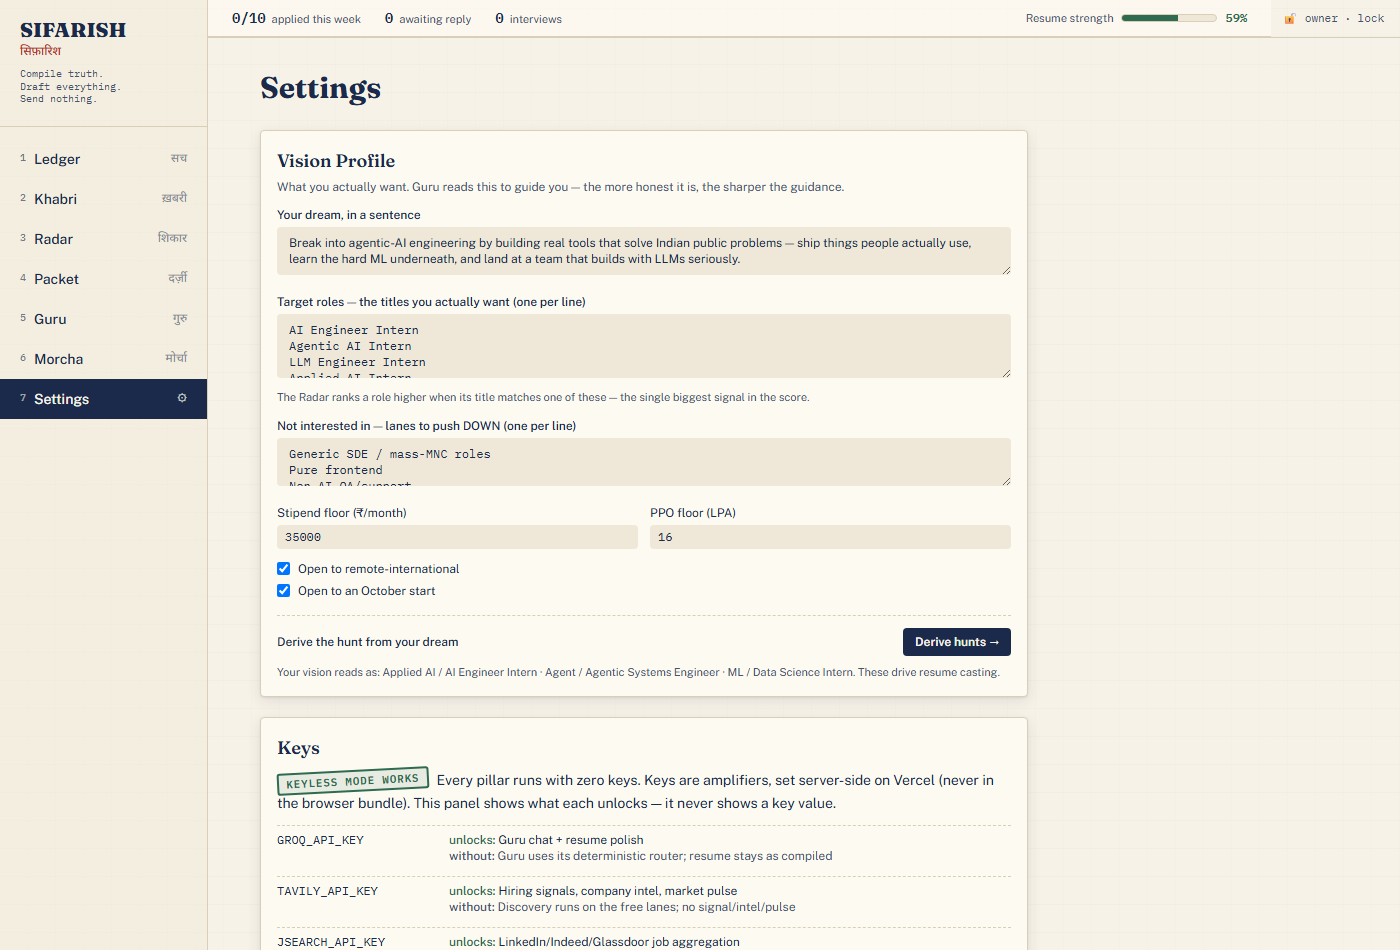
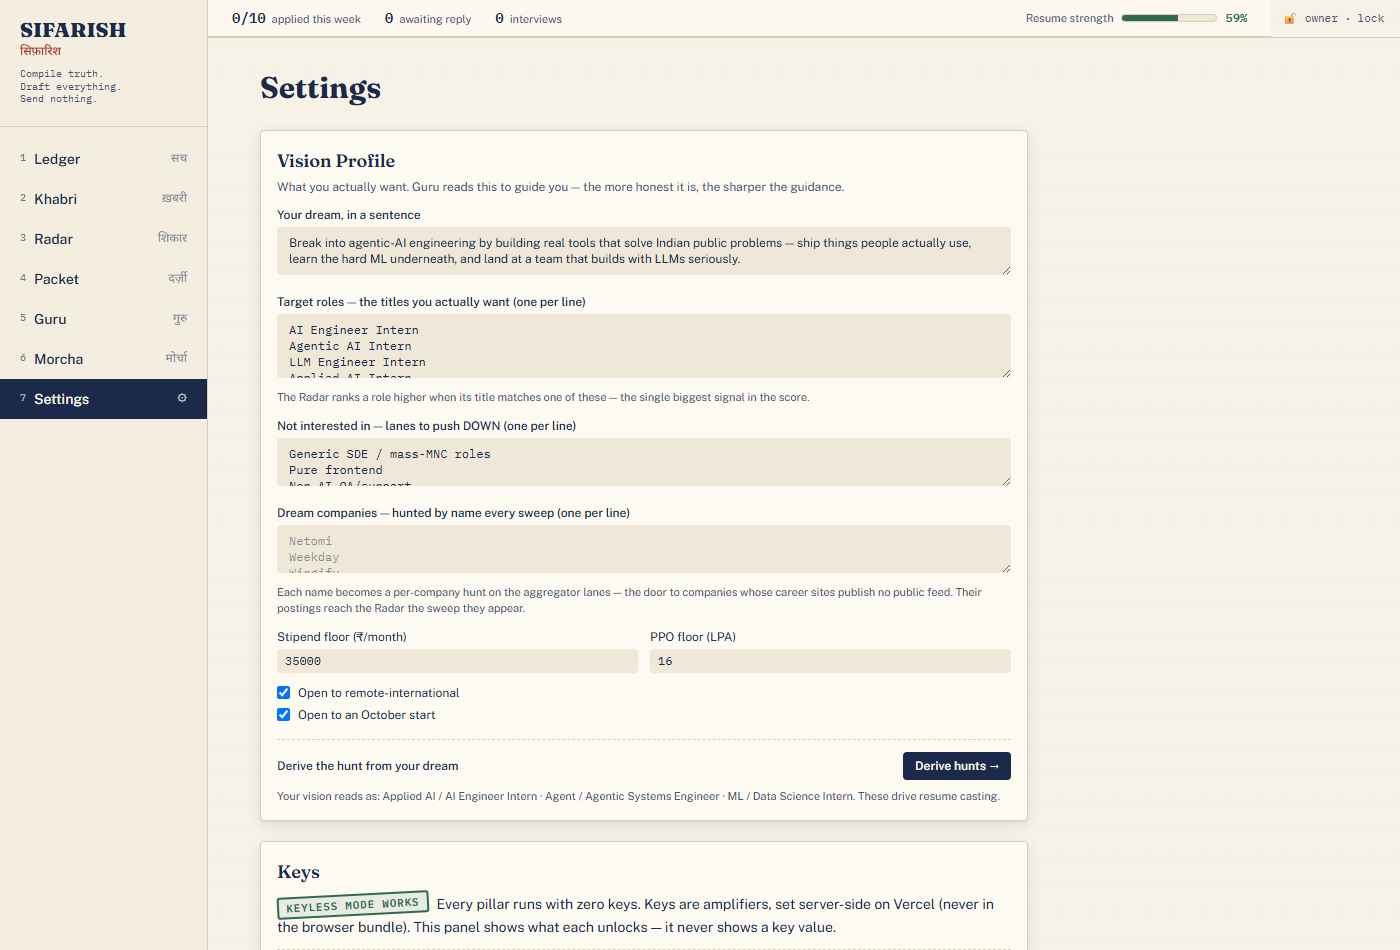
fix(S6): three defects caught by READING the live proofs — PDF sanitizer ate …/× (typesetting re-broke on the page), education sorted by Dexie key order (Class X above XII), both gated (D139)

Changed region(s): [[0.1843, 0.5189, 0.7371, 1.0]]

diff --git a/tests/session6.test.ts b/tests/session6.test.ts
@@ -123,6 +123,15 @@ describe('Defect 3 — the page reads like a typesetter set it', () => {
     }
     const xii = lines.find((l) => l.text.includes('Class X,'))
     expect(xii?.text).toMatch(/98\.6%.*2021/)
+    // Session 6 (live-proof catch): education is reverse-chronological — B.Tech, then XII, then X
+    // (Dexie's primary-key order had put Class X above Class XII).
+    const eduLines = []
+    for (let i = eduHeading + 1; i < lines.length && lines[i].kind !== 'heading'; i++) eduLines.push(lines[i].text)
+    const iBtech = eduLines.findIndex((t) => t.includes('B.Tech'))
+    const iXII = eduLines.findIndex((t) => t.includes('Class XII'))
+    const iX = eduLines.findIndex((t) => t.includes('Class X,'))
+    expect(iBtech).toBeLessThan(iXII)
+    expect(iXII).toBeLessThan(iX)
   })
 
   it('positions render one per bullet — never a semicolon-joined run-on', () => {
@@ -153,6 +162,15 @@ describe('Defect 3 — the page reads like a typesetter set it', () => {
       const lastWord = desc.slice(0, -1).trim().split(' ').pop()!
       expect(long.summary).toMatch(new RegExp(`(^|\\s)${lastWord}(\\s|$)`))
     }
+  })
+})
+
+describe('Defect 3 — the PDF sanitizer keeps the typesetting (caught by READING the PDF)', () => {
+  it('ellipsis and multiplication sign survive as ASCII, never vanish', async () => {
+    const { sanitizePdfText } = await import('../src/lib/export/pdf')
+    expect(sanitizePdfText('with a hand-authored…')).toBe('with a hand-authored...')
+    expect(sanitizePdfText('TIET × LinkedIn Learning')).toBe('TIET x LinkedIn Learning')
+    expect(sanitizePdfText('a  b')).toBe('a b')
   })
 })
 

diff --git a/src/lib/compile/compiler.ts b/src/lib/compile/compiler.ts
@@ -186,7 +186,17 @@ export function compileResume(input: CompileInput): CompiledResume {
   }
 
   // -- Fixed + trimmable content pools --
-  const education = shipped.filter((e) => e.kind === 'education')
+  // Education newest-first (Session 6, caught in the live proof): Dexie returns rows in
+  // primary-key order, which put Class X above Class XII. Degrees read reverse-chronological.
+  // Dates arrive as "MM/YYYY" or "YYYY[-MM]" — normalize to YYYYMM so the sort is real.
+  const eduKey = (d?: string): string => {
+    const m = /^(\d{1,2})\/(\d{4})$/.exec(d ?? '')
+    if (m) return `${m[2]}${m[1].padStart(2, '0')}`
+    return (d ?? '').replace(/[^0-9]/g, '').padEnd(6, '0').slice(0, 6)
+  }
+  const education = shipped
+    .filter((e) => e.kind === 'education')
+    .sort((a, b) => eduKey(b.evidence?.date).localeCompare(eduKey(a.evidence?.date)))
   const skills = shipped
     .filter((e) => e.kind === 'skill')
     .sort((a, b) => entryRelevance(b, decode) - entryRelevance(a, decode))

diff --git a/src/lib/export/pdf.ts b/src/lib/export/pdf.ts
@@ -18,7 +18,13 @@ export function sanitizePdfText(text: string): string {
     .replace(/–/g, '-')
     .replace(/•/g, '-')
     .replace(/·/g, '|')
+    // Session 6 (Defect 3, caught by READING the rendered PDF): the final strip below was EATING
+    // "…" and "×", so a word-safe truncation re-read as a broken phrase ("with a hand-authored |")
+    // and "TIET × LinkedIn" collapsed to a double space. Map them to ASCII before the strip.
+    .replace(/…/g, '...')
+    .replace(/×/g, 'x')
     .replace(/[^\x20-\x7E]/g, '')
+    .replace(/ {2,}/g, ' ')
 }
 
 function wrap(font: PDFFont, text: string, size: number, maxWidth: number): string[] {